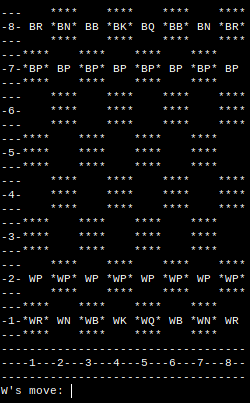
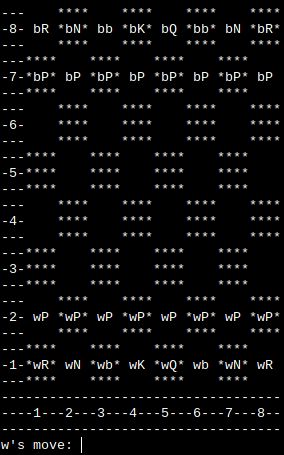
updated

diff --git a/index.html b/index.html
@@ -145,14 +145,19 @@
 
 <h2>C++ Chess Game</h2>
 
+<p>This is a simple, extremely ugly chess program I made a long time ago. I apologize for the mistake of the inverted king and queen pieces.<br>
+
+Source code is available <a href="https://www.dropbox.com/s/9enukub1lc9n2w6/chess.cpp?dl=0">here</a>. <strong>Note:</strong> Be aware that the code is really bad.</p>
+
 <p><img src="/images/chessdesc.png"></p>
 <p><img src="/images/chessboard.png"></p>
 
-<p><a href="https://www.dropbox.com/s/9enukub1lc9n2w6/chess.cpp?dl=0">Source code</a>
+	<header>
+		<p class="meta">
+		<time class='entry-date' datetime='2018-06-26T19:40:25+8:00'<span class='date'><span class='date-month'>Jun</span> <span class='date-day'>6</span><span class='date-suffix'>th</span>, <span class='date-year'>2018</span> <span class='time'>7:40 pm</span></time>
 
-<h2>Notes</h2>
-
-<p>This is a simple extremely ugly chess program I made a long time ago, sorry for the mistake of the inverted king and queen piece. If you want to play it, be aware that the code is really bad.</p></p>
+		</p>
+	</header>
 
 <h2>License</h2>
 
